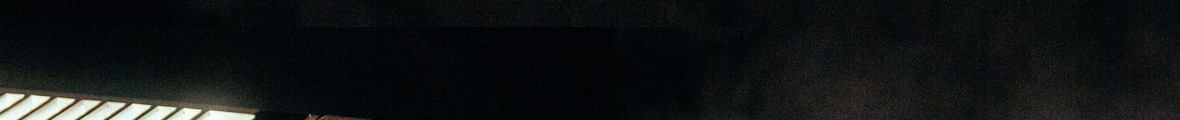
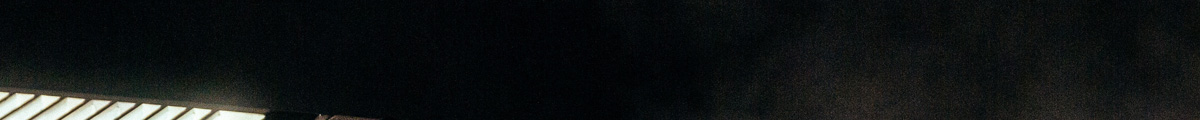
首页背景图修改

Changed region(s): [[0.0, 0.75, 0.3051, 1.0]]

diff --git a/src/views/home/home.vue b/src/views/home/home.vue
@@ -92,12 +92,14 @@
 <style lang='less' scoped>
   .bg {
     position: relative;
-    width: 1920px;
+    width: 100%;
     height: 724px;
     background-image: url('../../assets/home/yxc-bg.png');
     background-repeat: no-repeat;
-    overflow: hidden;
+    background-position: top center;
+    background-size: 1920px 724px;
     .bg-par {
+      width: 1200px;
       img {
         display: block;
       }

diff --git a/src/App.vue b/src/App.vue
@@ -29,5 +29,6 @@
   font-family: '微软雅黑', sans-serif;
   -webkit-font-smoothing: antialiased;
   -moz-osx-font-smoothing: grayscale;
+  overflow: hidden;
 }
 </style>
